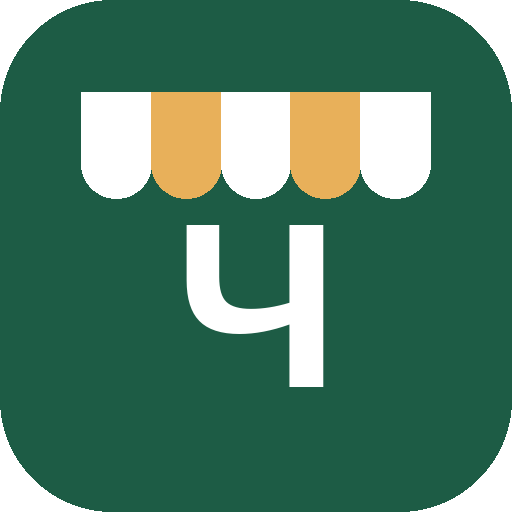
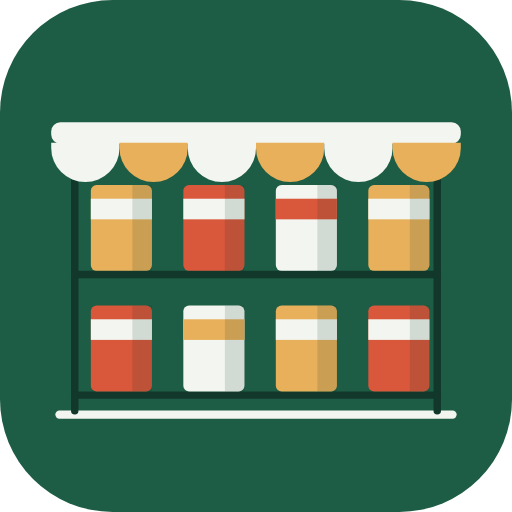
Вход по логину и паролю, роли (админ/управляющий/продавец); фильтр даты во всех отчётах; своё окно выбора даты; долги: должники сверху, скрыть несгор; балансы в списке инвентаризации и приходы у ячеек; даты в Google Таблицу числом; новая иконка
Claude-Session: https://claude.ai/code/session_01QDSHPmXkJUpHNPWqr6WPBc

diff --git a/sw.js b/sw.js
@@ -1,5 +1,5 @@
 // Офлайн-кэш приложения. Данные (Google Таблица) через кэш не идут.
-const CACHE = 'chorsu-v5';
+const CACHE = 'chorsu-v6';
 const SHELL = ['./', 'index.html', 'manifest.json', 'icon-180.png', 'icon-192.png', 'icon-512.png', 'splash.m4a'];
 self.addEventListener('install', e => { e.waitUntil(caches.open(CACHE).then(c => c.addAll(SHELL)).then(() => self.skipWaiting())); });
 self.addEventListener('activate', e => { e.waitUntil(caches.keys().then(ks => Promise.all(ks.filter(k => k !== CACHE).map(k => caches.delete(k)))).then(() => self.clients.claim())); });
